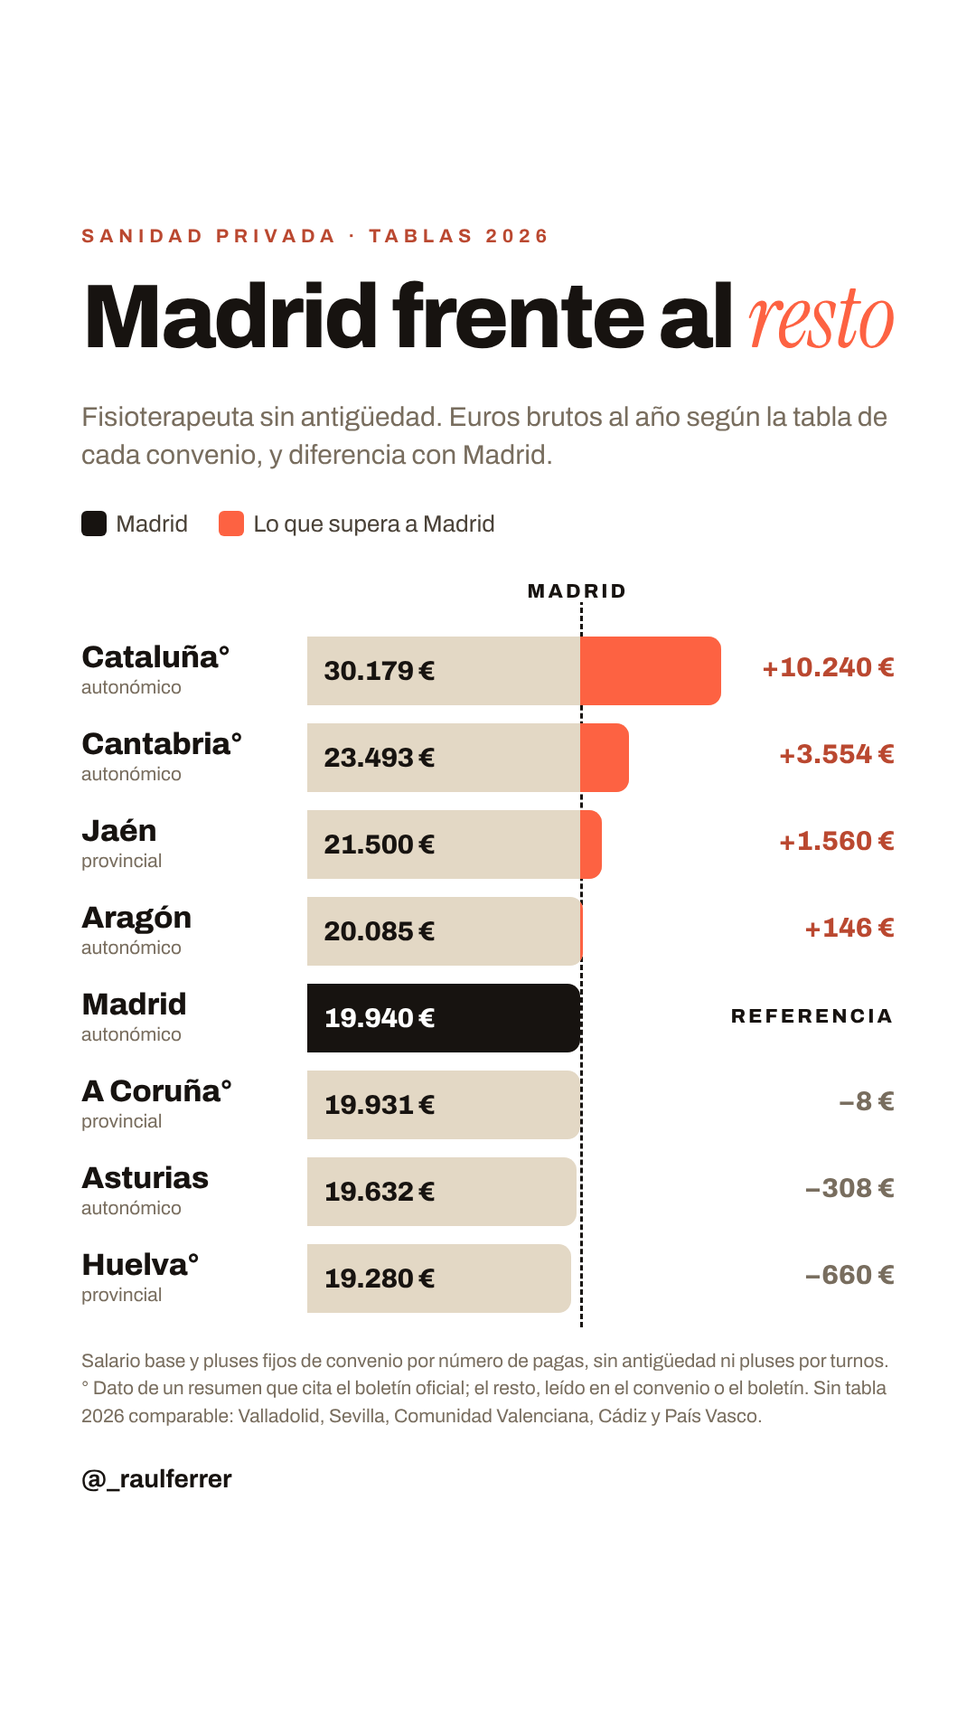
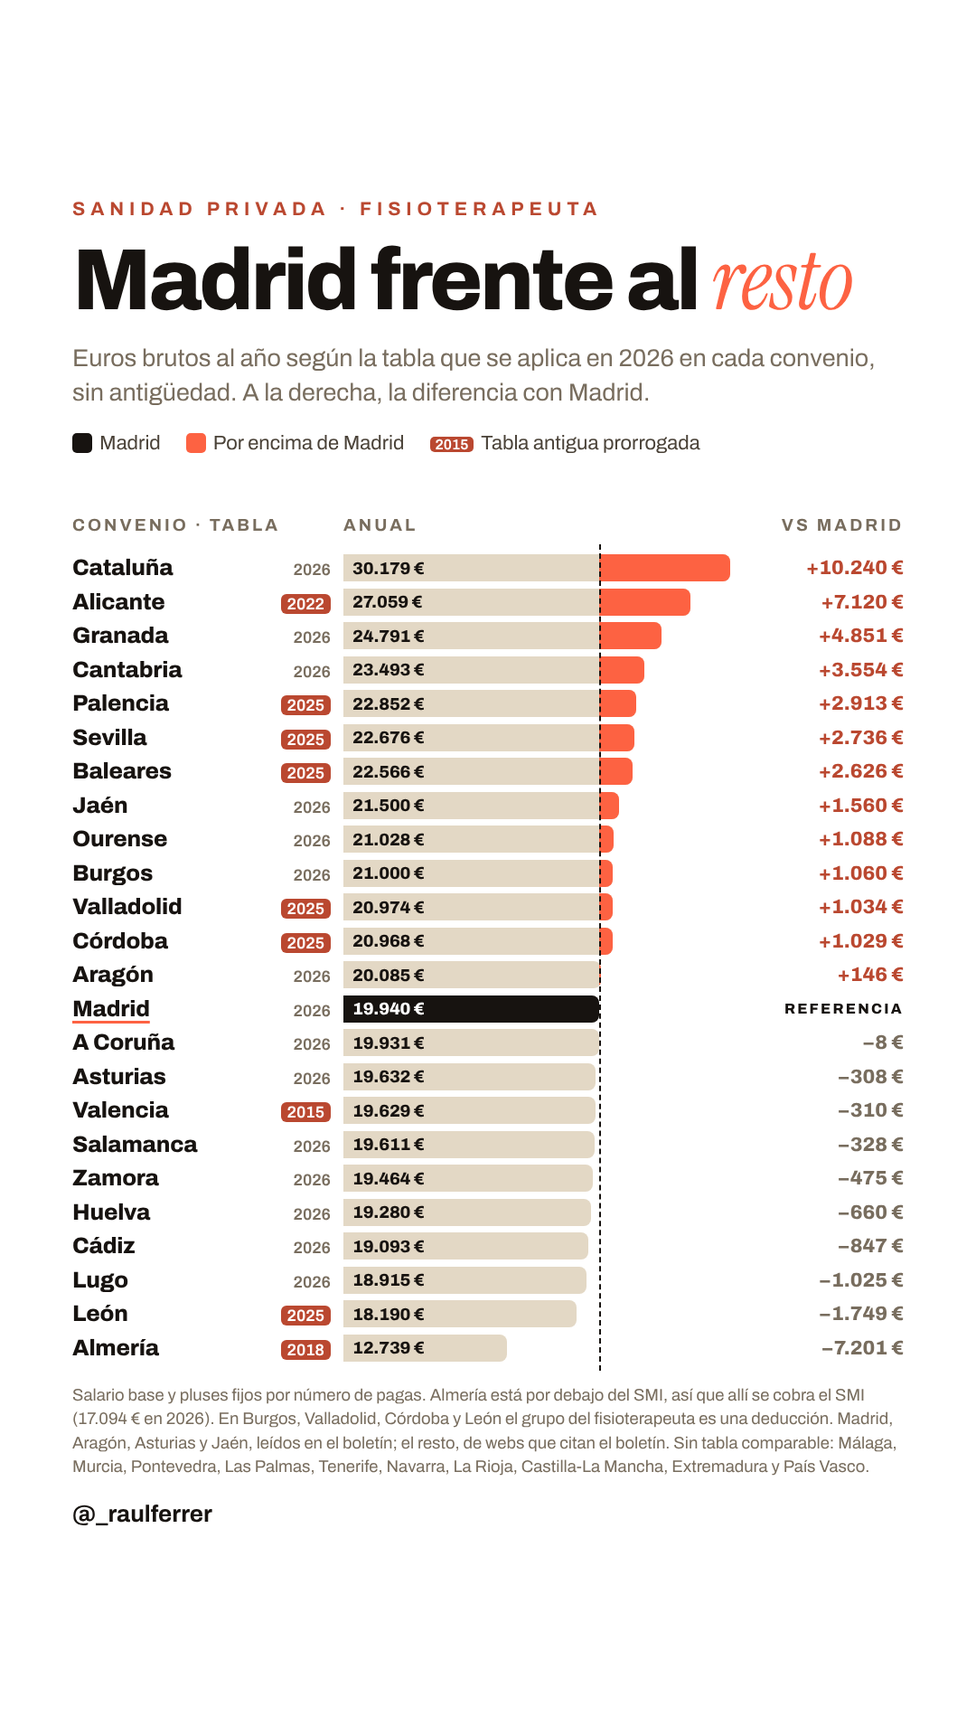
Historia con 24 convenios de sanidad privada frente a Madrid
Amplía la comparativa de 8 a 24 convenios (autonómicos y provinciales),
marca las tablas prorrogadas por año y genera la imagen desde el CSV.

Claude-Session: https://claude.ai/code/session_01B8nHMxpKDCaj2FQ5KeM4yb

Changed region(s): [[0.0611, 0.0938, 0.9472, 0.875]]

diff --git a/instagram-raulferrer/historia-convenios/historia.html b/instagram-raulferrer/historia-convenios/historia.html
@@ -1,50 +1,71 @@
 <!doctype html>
-<html lang="es"><head><meta charset="utf-8"><title>Convenios 2026</title>
+<html lang="es"><head><meta charset="utf-8"><title>Convenios de sanidad privada 2026</title>
 <link rel="stylesheet" href="../valor-fisioterapia/src/marca.css">
 <style>
   body { display:flex; padding:40px; justify-content:center; }
   .hist { position:relative; width:1080px; height:1920px; background:#fff; overflow:hidden; }
-  .a { position:absolute; left:90px; right:90px; }
-  .h2 { font-weight:800; font-size:104px; letter-spacing:-.035em; line-height:1; }
-  .sub { font-size:30px; line-height:1.4; color:var(--mut); }
-  .comp { position:absolute; left:90px; right:90px; top:700px; height:768px; }
-  .fila { position:absolute; left:0; right:0; height:88px; }
-  .nom { position:absolute; left:0; top:8px; width:234px; }
-  .nom b { display:block; font-weight:800; font-size:34px; letter-spacing:-.01em; line-height:1.1; }
-  .nom small { display:block; font-size:21px; color:var(--mut); margin-top:4px; }
-  .bar { position:absolute; left:250px; top:4px; height:76px; background:#E3D8C5; border-radius:0 14px 14px 0; overflow:hidden; display:flex; align-items:center; padding-left:18px; }
+  .a { position:absolute; left:80px; right:80px; }
+  .h2 { font-weight:800; font-size:96px; letter-spacing:-.035em; line-height:1; }
+  .sub { font-size:27px; line-height:1.4; color:var(--mut); }
+  .cabe { display:flex; font-size:19px; font-weight:700; letter-spacing:.16em; text-transform:uppercase; color:var(--mut); }
+  .comp { position:absolute; left:80px; right:80px; top:612px; height:900px; }
+  .fila { position:absolute; left:0; right:0; height:32.5px; }
+  .nom { position:absolute; left:0; top:2px; width:286px; display:flex; align-items:baseline; justify-content:space-between; }
+  .nom b { font-weight:800; font-size:25px; letter-spacing:-.01em; }
+  .nom .t { font-size:18px; font-weight:600; color:var(--mut); }
+  .nom .t.vieja { color:#fff; background:var(--nartxt); border-radius:6px; padding:1px 7px; }
+  .bar { position:absolute; left:300px; top:1px; height:30px; background:#E3D8C5; border-radius:0 8px 8px 0; overflow:hidden; display:flex; align-items:center; padding-left:10px; }
   .bar .exc { position:absolute; right:0; top:0; bottom:0; background:var(--nar); }
-  .bar span { position:relative; font-weight:800; font-size:30px; letter-spacing:-.02em; color:var(--ink); }
+  .bar span { position:relative; font-weight:800; font-size:19px; letter-spacing:-.01em; color:var(--ink); }
   .bar.mad { background:var(--ink); }
   .bar.mad span { color:#fff; }
-  .dif { position:absolute; right:0; top:22px; font-style:normal; font-weight:800; font-size:30px; white-space:nowrap; text-align:right; }
+  .fmad .nom b { text-decoration: underline 3px var(--nar); text-underline-offset: 5px; }
+  .dif { position:absolute; right:0; top:4px; font-style:normal; font-weight:800; font-size:22px; white-space:nowrap; }
   .dif.mas { color:var(--nartxt); }
   .dif.menos { color:var(--mut); }
-  .dif.ref { color:var(--ink); font-size:22px; letter-spacing:.14em; text-transform:uppercase; top:28px; }
-  .linea { position:absolute; top:-46px; bottom:0; border-left:3px dashed var(--ink); }
-  .linea span { position:absolute; left:-70px; top:-12px; background:#fff; padding:0 8px; font-weight:800; font-size:22px; letter-spacing:.14em; text-transform:uppercase; white-space:nowrap; }
-  .leyenda { display:flex; gap:34px; font-size:26px; color:var(--texto,#4A4238); }
-  .leyenda i { display:inline-block; width:28px; height:28px; border-radius:6px; vertical-align:-5px; margin-right:10px; }
-  .nota { font-size:21px; line-height:1.45; color:var(--mut); }
+  .dif.ref { color:var(--ink); font-size:16px; letter-spacing:.14em; text-transform:uppercase; top:7px; }
+  .linea { position:absolute; top:-10px; bottom:-4px; border-left:2px dashed var(--ink); z-index:2; }
+  .smi { position:absolute; top:-10px; bottom:-4px; border-left:2px dotted var(--nartxt); z-index:2; }
+  .leyenda { display:flex; flex-wrap:wrap; gap:10px 28px; font-size:22px; color:#4A4238; }
+  .leyenda i { display:inline-block; width:22px; height:22px; border-radius:5px; vertical-align:-4px; margin-right:8px; }
+  .leyenda .anio { display:inline-block; font-size:16px; font-weight:600; color:#fff; background:var(--nartxt); border-radius:5px; padding:0 6px; margin-right:8px; }
+  .nota { font-size:18.5px; line-height:1.42; color:var(--mut); }
 </style></head>
 <body>
 <section class="hist" id="historia">
-  <div class="a kick" style="top:250px">Sanidad privada · tablas 2026</div>
-  <div class="a h2" style="top:300px; font-size:100px">Madrid frente al <span class="serif">resto</span></div>
-  <p class="a sub" style="top:440px">Fisioterapeuta sin antigüedad. Euros brutos al año según la tabla de cada convenio, y diferencia con Madrid.</p>
-  <div class="a leyenda" style="top:565px"><span><i style="background:var(--ink)"></i>Madrid</span><span><i style="background:var(--nar)"></i>Lo que supera a Madrid</span></div>
+  <div class="a kick" style="top:220px">Sanidad privada · fisioterapeuta</div>
+  <div class="a h2" style="top:262px">Madrid frente al <span class="serif">resto</span></div>
+  <p class="a sub" style="top:378px">Euros brutos al año según la tabla que se aplica en 2026 en cada convenio, sin antigüedad. A la derecha, la diferencia con Madrid.</p>
+  <div class="a leyenda" style="top:478px"><span><i style="background:var(--ink)"></i>Madrid</span><span><i style="background:var(--nar)"></i>Por encima de Madrid</span><span><span class="anio">2015</span>Tabla antigua prorrogada</span></div>
+  <div class="a cabe" style="top:570px"><span style="width:300px">Convenio · tabla</span><span>Anual</span><span style="margin-left:auto">vs Madrid</span></div>
   <div class="comp">
-    <div class="linea" style="left:552.3px"><span>Madrid</span></div>
-    <div class="fila" style="top:0px"><div class="nom"><b>Cataluña°</b><small>autonómico</small></div><div class="bar" style="width:457.6px"><i class="exc" style="width:155.2px"></i><span>30.179 €</span></div><em class="dif mas">+10.240 €</em></div>
-    <div class="fila" style="top:96px"><div class="nom"><b>Cantabria°</b><small>autonómico</small></div><div class="bar" style="width:356.2px"><i class="exc" style="width:53.9px"></i><span>23.493 €</span></div><em class="dif mas">+3.554 €</em></div>
-    <div class="fila" style="top:192px"><div class="nom"><b>Jaén</b><small>provincial</small></div><div class="bar" style="width:326.0px"><i class="exc" style="width:23.7px"></i><span>21.500 €</span></div><em class="dif mas">+1.560 €</em></div>
-    <div class="fila" style="top:288px"><div class="nom"><b>Aragón</b><small>autonómico</small></div><div class="bar" style="width:304.5px"><i class="exc" style="width:2.2px"></i><span>20.085 €</span></div><em class="dif mas">+146 €</em></div>
-    <div class="fila" style="top:384px"><div class="nom"><b>Madrid</b><small>autonómico</small></div><div class="bar mad" style="width:302.3px"><span>19.940 €</span></div><em class="dif ref">referencia</em></div>
-    <div class="fila" style="top:480px"><div class="nom"><b>A Coruña°</b><small>provincial</small></div><div class="bar" style="width:302.2px"><span>19.931 €</span></div><em class="dif menos">−8 €</em></div>
-    <div class="fila" style="top:576px"><div class="nom"><b>Asturias</b><small>autonómico</small></div><div class="bar" style="width:297.6px"><span>19.632 €</span></div><em class="dif menos">−308 €</em></div>
-    <div class="fila" style="top:672px"><div class="nom"><b>Huelva°</b><small>provincial</small></div><div class="bar" style="width:292.3px"><span>19.280 €</span></div><em class="dif menos">−660 €</em></div>
+    <div class="linea" style="left:583.0px"></div>
+    <div class="fila" style="top:0.0px"><div class="nom"><b>Cataluña</b><small class="t">2026</small></div><div class="bar" style="width:428.3px"><i class="exc" style="width:145.3px"></i><span>30.179 €</span></div><em class="dif mas">+10.240 €</em></div>
+    <div class="fila" style="top:37.5px"><div class="nom"><b>Alicante</b><small class="t vieja">2022</small></div><div class="bar" style="width:384.1px"><i class="exc" style="width:101.1px"></i><span>27.059 €</span></div><em class="dif mas">+7.120 €</em></div>
+    <div class="fila" style="top:75.0px"><div class="nom"><b>Granada</b><small class="t">2026</small></div><div class="bar" style="width:351.9px"><i class="exc" style="width:68.9px"></i><span>24.791 €</span></div><em class="dif mas">+4.851 €</em></div>
+    <div class="fila" style="top:112.5px"><div class="nom"><b>Cantabria</b><small class="t">2026</small></div><div class="bar" style="width:333.4px"><i class="exc" style="width:50.4px"></i><span>23.493 €</span></div><em class="dif mas">+3.554 €</em></div>
+    <div class="fila" style="top:150.0px"><div class="nom"><b>Palencia</b><small class="t vieja">2025</small></div><div class="bar" style="width:324.4px"><i class="exc" style="width:41.3px"></i><span>22.852 €</span></div><em class="dif mas">+2.913 €</em></div>
+    <div class="fila" style="top:187.5px"><div class="nom"><b>Sevilla</b><small class="t vieja">2025</small></div><div class="bar" style="width:321.9px"><i class="exc" style="width:38.8px"></i><span>22.676 €</span></div><em class="dif mas">+2.736 €</em></div>
+    <div class="fila" style="top:225.0px"><div class="nom"><b>Baleares</b><small class="t vieja">2025</small></div><div class="bar" style="width:320.3px"><i class="exc" style="width:37.3px"></i><span>22.566 €</span></div><em class="dif mas">+2.626 €</em></div>
+    <div class="fila" style="top:262.5px"><div class="nom"><b>Jaén</b><small class="t">2026</small></div><div class="bar" style="width:305.2px"><i class="exc" style="width:22.1px"></i><span>21.500 €</span></div><em class="dif mas">+1.560 €</em></div>
+    <div class="fila" style="top:300.0px"><div class="nom"><b>Ourense</b><small class="t">2026</small></div><div class="bar" style="width:298.5px"><i class="exc" style="width:15.4px"></i><span>21.028 €</span></div><em class="dif mas">+1.088 €</em></div>
+    <div class="fila" style="top:337.5px"><div class="nom"><b>Burgos</b><small class="t">2026</small></div><div class="bar" style="width:298.1px"><i class="exc" style="width:15.1px"></i><span>21.000 €</span></div><em class="dif mas">+1.060 €</em></div>
+    <div class="fila" style="top:375.0px"><div class="nom"><b>Valladolid</b><small class="t vieja">2025</small></div><div class="bar" style="width:297.7px"><i class="exc" style="width:14.7px"></i><span>20.974 €</span></div><em class="dif mas">+1.034 €</em></div>
+    <div class="fila" style="top:412.5px"><div class="nom"><b>Córdoba</b><small class="t vieja">2025</small></div><div class="bar" style="width:297.6px"><i class="exc" style="width:14.6px"></i><span>20.968 €</span></div><em class="dif mas">+1.029 €</em></div>
+    <div class="fila" style="top:450.0px"><div class="nom"><b>Aragón</b><small class="t">2026</small></div><div class="bar" style="width:285.1px"><i class="exc" style="width:2.1px"></i><span>20.085 €</span></div><em class="dif mas">+146 €</em></div>
+    <div class="fila fmad" style="top:487.5px"><div class="nom"><b>Madrid</b><small class="t">2026</small></div><div class="bar mad" style="width:283.0px"><span>19.940 €</span></div><em class="dif ref">referencia</em></div>
+    <div class="fila" style="top:525.0px"><div class="nom"><b>A Coruña</b><small class="t">2026</small></div><div class="bar" style="width:282.9px"><span>19.931 €</span></div><em class="dif menos">−8 €</em></div>
+    <div class="fila" style="top:562.5px"><div class="nom"><b>Asturias</b><small class="t">2026</small></div><div class="bar" style="width:278.6px"><span>19.632 €</span></div><em class="dif menos">−308 €</em></div>
+    <div class="fila" style="top:600.0px"><div class="nom"><b>Valencia</b><small class="t vieja">2015</small></div><div class="bar" style="width:278.6px"><span>19.629 €</span></div><em class="dif menos">−310 €</em></div>
+    <div class="fila" style="top:637.5px"><div class="nom"><b>Salamanca</b><small class="t">2026</small></div><div class="bar" style="width:278.4px"><span>19.611 €</span></div><em class="dif menos">−328 €</em></div>
+    <div class="fila" style="top:675.0px"><div class="nom"><b>Zamora</b><small class="t">2026</small></div><div class="bar" style="width:276.3px"><span>19.464 €</span></div><em class="dif menos">−475 €</em></div>
+    <div class="fila" style="top:712.5px"><div class="nom"><b>Huelva</b><small class="t">2026</small></div><div class="bar" style="width:273.7px"><span>19.280 €</span></div><em class="dif menos">−660 €</em></div>
+    <div class="fila" style="top:750.0px"><div class="nom"><b>Cádiz</b><small class="t">2026</small></div><div class="bar" style="width:271.0px"><span>19.093 €</span></div><em class="dif menos">−847 €</em></div>
+    <div class="fila" style="top:787.5px"><div class="nom"><b>Lugo</b><small class="t">2026</small></div><div class="bar" style="width:268.5px"><span>18.915 €</span></div><em class="dif menos">−1.025 €</em></div>
+    <div class="fila" style="top:825.0px"><div class="nom"><b>León</b><small class="t vieja">2025</small></div><div class="bar" style="width:258.2px"><span>18.190 €</span></div><em class="dif menos">−1.749 €</em></div>
+    <div class="fila" style="top:862.5px"><div class="nom"><b>Almería</b><small class="t vieja">2018</small></div><div class="bar" style="width:180.8px"><span>12.739 €</span></div><em class="dif menos">−7.201 €</em></div>
   </div>
-  <p class="a nota" style="top:1490px">Salario base y pluses fijos de convenio por número de pagas, sin antigüedad ni pluses por turnos. ° Dato de un resumen que cita el boletín oficial; el resto, leído en el convenio o el boletín. Sin tabla 2026 comparable: Valladolid, Sevilla, Comunidad Valenciana, Cádiz y País Vasco.</p>
-  <div class="a" style="top:1620px; font-weight:700; font-size:28px">@_raulferrer</div>
+  <p class="a nota" style="top:1530px">Salario base y pluses fijos por número de pagas. Almería está por debajo del SMI, así que allí se cobra el SMI (17.094 € en 2026). En Burgos, Valladolid, Córdoba y León el grupo del fisioterapeuta es una deducción. Madrid, Aragón, Asturias y Jaén, leídos en el boletín; el resto, de webs que citan el boletín. Sin tabla comparable: Málaga, Murcia, Pontevedra, Las Palmas, Tenerife, Navarra, La Rioja, Castilla-La Mancha, Extremadura y País Vasco.</p>
+  <div class="a" style="top:1660px; font-weight:700; font-size:26px">@_raulferrer</div>
 </section>
 </body></html>

diff --git a/instagram-raulferrer/historia-convenios/generar.py b/instagram-raulferrer/historia-convenios/generar.py
@@ -1,0 +1,65 @@
+"""Genera historia.html a partir de ../reel-respuesta-margen/datos/convenios-sanidad-privada-2026.csv"""
+import csv
+rows=list(csv.DictReader(open('../reel-respuesta-margen/datos/convenios-sanidad-privada-2026.csv')))
+rows.sort(key=lambda r:-float(r['retribucion_anual_tabla']))
+MAD=19939.50; SMI26=17094; MAX=31000; X0=300; W=440; ROW=37.5
+def x(v): return W*v/MAX
+def eur(v): return f"{v:,.0f} €".replace(",",".")
+filas=[]
+for i,r in enumerate(rows):
+    v=float(r['retribucion_anual_tabla']); d=v-MAD; mad=r['territorio']=='Madrid'
+    exc=f'<i class="exc" style="width:{x(v)-x(MAD):.1f}px"></i>' if (d>0 and not mad) else ''
+    if mad: dif='<em class="dif ref">referencia</em>'
+    else: dif=f'<em class="dif {"mas" if d>=0 else "menos"}">{"+" if d>=0 else "−"}{eur(abs(d))}</em>'
+    vieja='' if r['tabla']=='2026' else f' vieja'
+    filas.append(f'<div class="fila{" fmad" if mad else ""}" style="top:{i*ROW:.1f}px"><div class="nom"><b>{r["territorio"]}</b><small class="t{vieja}">{r["tabla"]}</small></div><div class="bar{" mad" if mad else ""}" style="width:{x(v):.1f}px">{exc}<span>{eur(v)}</span></div>{dif}</div>')
+html=f'''<!doctype html>
+<html lang="es"><head><meta charset="utf-8"><title>Convenios de sanidad privada 2026</title>
+<link rel="stylesheet" href="../valor-fisioterapia/src/marca.css">
+<style>
+  body {{ display:flex; padding:40px; justify-content:center; }}
+  .hist {{ position:relative; width:1080px; height:1920px; background:#fff; overflow:hidden; }}
+  .a {{ position:absolute; left:80px; right:80px; }}
+  .h2 {{ font-weight:800; font-size:96px; letter-spacing:-.035em; line-height:1; }}
+  .sub {{ font-size:27px; line-height:1.4; color:var(--mut); }}
+  .cabe {{ display:flex; font-size:19px; font-weight:700; letter-spacing:.16em; text-transform:uppercase; color:var(--mut); }}
+  .comp {{ position:absolute; left:80px; right:80px; top:612px; height:{ROW*len(rows):.0f}px; }}
+  .fila {{ position:absolute; left:0; right:0; height:{ROW-5:.1f}px; }}
+  .nom {{ position:absolute; left:0; top:2px; width:{X0-14}px; display:flex; align-items:baseline; justify-content:space-between; }}
+  .nom b {{ font-weight:800; font-size:25px; letter-spacing:-.01em; }}
+  .nom .t {{ font-size:18px; font-weight:600; color:var(--mut); }}
+  .nom .t.vieja {{ color:#fff; background:var(--nartxt); border-radius:6px; padding:1px 7px; }}
+  .bar {{ position:absolute; left:{X0}px; top:1px; height:30px; background:#E3D8C5; border-radius:0 8px 8px 0; overflow:hidden; display:flex; align-items:center; padding-left:10px; }}
+  .bar .exc {{ position:absolute; right:0; top:0; bottom:0; background:var(--nar); }}
+  .bar span {{ position:relative; font-weight:800; font-size:19px; letter-spacing:-.01em; color:var(--ink); }}
+  .bar.mad {{ background:var(--ink); }}
+  .bar.mad span {{ color:#fff; }}
+  .fmad .nom b {{ text-decoration: underline 3px var(--nar); text-underline-offset: 5px; }}
+  .dif {{ position:absolute; right:0; top:4px; font-style:normal; font-weight:800; font-size:22px; white-space:nowrap; }}
+  .dif.mas {{ color:var(--nartxt); }}
+  .dif.menos {{ color:var(--mut); }}
+  .dif.ref {{ color:var(--ink); font-size:16px; letter-spacing:.14em; text-transform:uppercase; top:7px; }}
+  .linea {{ position:absolute; top:-10px; bottom:-4px; border-left:2px dashed var(--ink); z-index:2; }}
+  .smi {{ position:absolute; top:-10px; bottom:-4px; border-left:2px dotted var(--nartxt); z-index:2; }}
+  .leyenda {{ display:flex; flex-wrap:wrap; gap:10px 28px; font-size:22px; color:#4A4238; }}
+  .leyenda i {{ display:inline-block; width:22px; height:22px; border-radius:5px; vertical-align:-4px; margin-right:8px; }}
+  .leyenda .anio {{ display:inline-block; font-size:16px; font-weight:600; color:#fff; background:var(--nartxt); border-radius:5px; padding:0 6px; margin-right:8px; }}
+  .nota {{ font-size:18.5px; line-height:1.42; color:var(--mut); }}
+</style></head>
+<body>
+<section class="hist" id="historia">
+  <div class="a kick" style="top:220px">Sanidad privada · fisioterapeuta</div>
+  <div class="a h2" style="top:262px">Madrid frente al <span class="serif">resto</span></div>
+  <p class="a sub" style="top:378px">Euros brutos al año según la tabla que se aplica en 2026 en cada convenio, sin antigüedad. A la derecha, la diferencia con Madrid.</p>
+  <div class="a leyenda" style="top:478px"><span><i style="background:var(--ink)"></i>Madrid</span><span><i style="background:var(--nar)"></i>Por encima de Madrid</span><span><span class="anio">2015</span>Tabla antigua prorrogada</span></div>
+  <div class="a cabe" style="top:570px"><span style="width:{X0}px">Convenio · tabla</span><span>Anual</span><span style="margin-left:auto">vs Madrid</span></div>
+  <div class="comp">
+    <div class="linea" style="left:{X0+x(MAD):.1f}px"></div>
+{chr(10).join("    "+f for f in filas)}
+  </div>
+  <p class="a nota" style="top:{612+ROW*len(rows)+18:.0f}px">Salario base y pluses fijos por número de pagas. Almería está por debajo del SMI, así que allí se cobra el SMI (17.094 € en 2026). En Burgos, Valladolid, Córdoba y León el grupo del fisioterapeuta es una deducción. Madrid, Aragón, Asturias y Jaén, leídos en el boletín; el resto, de webs que citan el boletín. Sin tabla comparable: Málaga, Murcia, Pontevedra, Las Palmas, Tenerife, Navarra, La Rioja, Castilla-La Mancha, Extremadura y País Vasco.</p>
+  <div class="a" style="top:1660px; font-weight:700; font-size:26px">@_raulferrer</div>
+</section>
+</body></html>'''
+open('historia.html','w').write(html)
+print(len(rows), 'filas; lista termina en', 612+ROW*len(rows))

diff --git a/instagram-raulferrer/historia-convenios/README.md b/instagram-raulferrer/historia-convenios/README.md
@@ -1,8 +1,12 @@
-# @_raulferrer · Historia: convenios de sanidad privada 2026
+# @_raulferrer · Historia: convenios de sanidad privada
 
-Imagen de historia (1080 × 1920) con la retribución anual de tabla de 2026 de un fisioterapeuta sin antigüedad en ocho convenios de sanidad privada, comparada con Madrid.
+Imagen de historia (1080 × 1920) con la retribución anual de tabla que se aplica en 2026 a un fisioterapeuta sin antigüedad en 24 convenios de sanidad privada, ordenados de mayor a menor y comparados con Madrid. Las tablas que no se han actualizado (prorrogadas de 2015, 2018, 2022 o 2025) llevan el año marcado en naranja.
 
-- `historia.html`: fuente, generada a partir de `../reel-respuesta-margen/datos/convenios-2026.csv`.
+- `generar.py`: genera `historia.html` a partir de `../reel-respuesta-margen/datos/convenios-sanidad-privada-2026.csv`.
 - `salida/historia-convenios-2026.png`: imagen final.
 
-Los territorios marcados con ° (Cataluña, Cantabria, A Coruña y Huelva) proceden de resúmenes que citan el boletín oficial; Madrid, Aragón, Asturias y Jaén se leyeron en el convenio o en el boletín.
+Regenerar: `python3 generar.py` y captura de `#historia` con Playwright.
+
+Verificación: Madrid, Aragón y Asturias se leyeron en el boletín o en el convenio; Jaén, en la tabla del BOP citada literalmente. El resto procede de webs de convenios que citan el boletín oficial (columna `verificacion` del CSV). En Burgos, Valladolid, Córdoba y León el grupo del fisioterapeuta se ha deducido de la descripción de los grupos.
+
+Sin tabla comparable: Málaga (tabla no publicada en la fuente), Murcia y Pontevedra (sin categoría de fisioterapeuta), Las Palmas (estructura de salario garantizado no comparable), Tenerife, Navarra, La Rioja, Castilla-La Mancha y Extremadura (no localizados o solo convenio de ambulancias) y País Vasco (sin convenio sectorial).

diff --git a/instagram-raulferrer/reel-respuesta-margen/textos.md b/instagram-raulferrer/reel-respuesta-margen/textos.md
@@ -26,5 +26,5 @@ Te contesto en un reel, que en un comentario no cabe. Veamos qué hay de cierto 
 - Portada sugerida: `salida/portada-reel.jpg` (las dos clínicas a final de mes).
 - Ejemplo mensual: 6 sesiones al día × 21 días × 60 € = 7.560 €. Clínica B: convenio de Madrid 2026 (1.424,25 € × 14 / 12 = 1.661,63 € brutos al mes) con cotizaciones empresariales de en torno al 32 %, unos 2.200 €. Clínica A paga unos 700 € más de coste mensual. Los 3.000 € de otros costes son ilustrativos.
 - Madrid frente a Cataluña: tablas 2026 de cada convenio (Madrid leído en el texto oficial; Cataluña, según resumen que cita el DOGC 9719 de 30/07/2026). Precio por sesión: horquilla de 40 a 70 € que repiten varias guías de precios para Madrid y Barcelona; es orientativa, no un estudio oficial.
-- El resto de datos de convenios está en `datos/convenios-2026.csv`.
+- El resto de datos de convenios está en `datos/convenios-sanidad-privada-2026.csv`.
 - El comentario se cita sin nombre de usuario ni el insulto.
